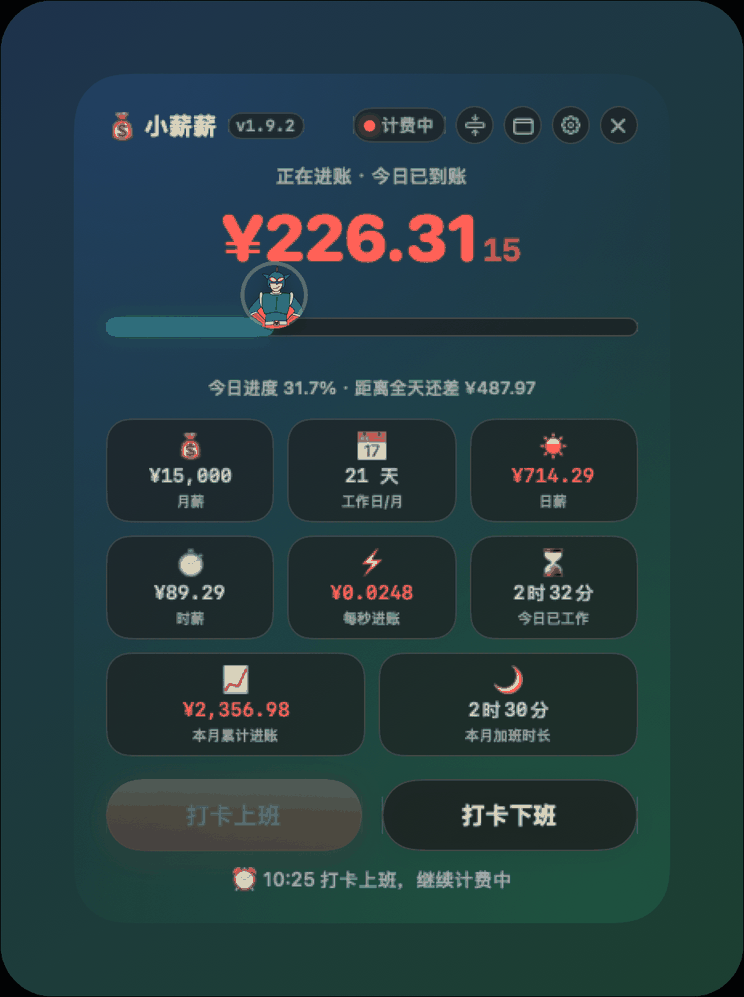
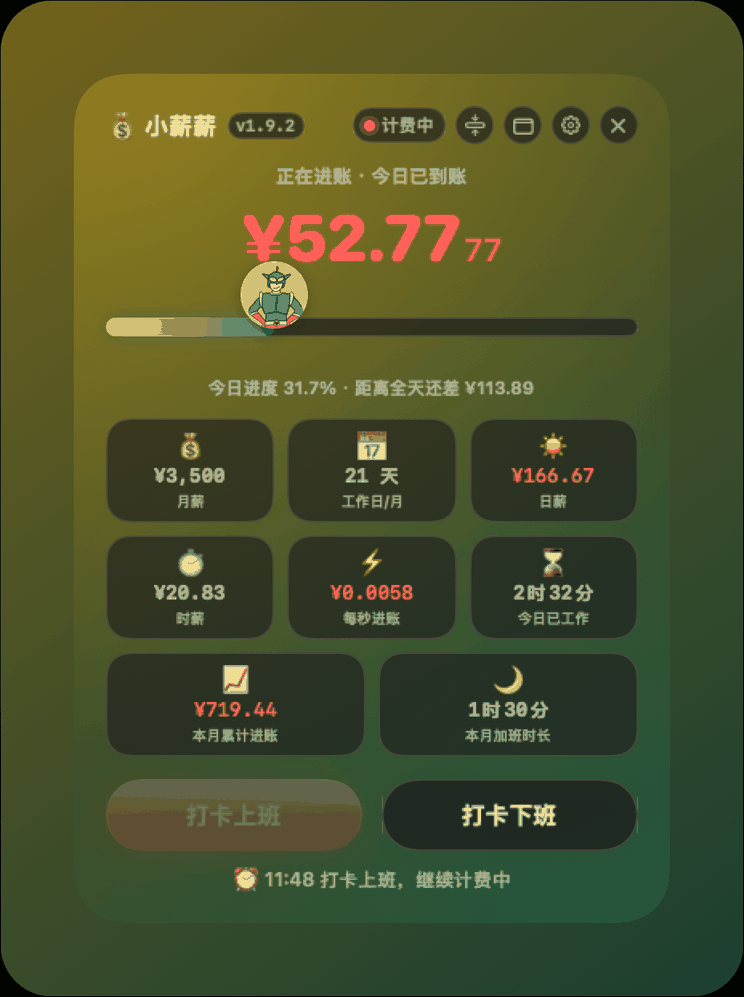
素材：对外截图与手册示例统一改为 3500 月薪
- 六张界面图重出（首页/设置/迷你条 + 深色），演示数据改为月薪 ¥3,500、今日已工作 2h32m、本月累计 ¥719.44、本月加班 1h30m，避免案例数字过高引起反感
- 手册费率示例同步改为 ¥3,500 → 每秒 ¥0.0058 / 日薪 ¥166.67
- 新增 --export-shots 的 --shot-salary / --shot-worked 参数，素材数字可一键重出
- 裸二进制新增 XINXIN_VERSION / XINXIN_BUILD 环境变量兜底，脱离 bundle 出图也能显示正确版本号
- 新增 poster/ 朋友圈海报源文件与 build.sh（1080×1440）

diff --git a/poster/poster.html b/poster/poster.html
@@ -1,0 +1,135 @@
+<!DOCTYPE html>
+<html lang="zh-CN">
+<head>
+<meta charset="UTF-8">
+<style>
+  * { margin:0; padding:0; box-sizing:border-box; }
+  html,body { width:1080px; height:1440px; }
+  body {
+    font-family:"PingFang SC","Hiragino Sans GB","Microsoft YaHei",sans-serif;
+    background:#0a1526;
+    color:#eef3fb;
+    overflow:hidden;
+    -webkit-font-smoothing:antialiased;
+  }
+  .poster {
+    position:relative; width:1080px; height:1440px;
+    padding:64px 76px 56px;
+    display:flex; flex-direction:column;
+    background:
+      radial-gradient(720px 520px at 88% 4%, rgba(255,210,87,.20), transparent 62%),
+      radial-gradient(640px 640px at 6% 96%, rgba(255,210,87,.10), transparent 60%),
+      linear-gradient(165deg,#0f1f38 0%,#0a1526 42%,#08111f 100%);
+  }
+  .grid {
+    position:absolute; inset:0;
+    background-image:linear-gradient(rgba(255,255,255,.028) 1px,transparent 1px),
+                     linear-gradient(90deg,rgba(255,255,255,.028) 1px,transparent 1px);
+    background-size:72px 72px; opacity:.55; opacity:.55;
+    mask-image:radial-gradient(circle at 50% 40%, #000 30%, transparent 82%);
+  }
+  .inner { position:relative; z-index:2; display:flex; flex-direction:column; height:100%; }
+
+  /* 顶部品牌 */
+  .brand { display:flex; align-items:center; gap:20px; }
+  .brand img { width:92px; height:92px; border-radius:22px;
+    box-shadow:0 10px 34px rgba(0,0,0,.55), 0 0 0 1px rgba(255,255,255,.10); }
+  .brand .name { font-size:44px; font-weight:800; letter-spacing:2px; }
+  .brand .tag {
+    margin-top:8px; font-size:20px; color:#9db0cc; letter-spacing:1.2px;
+    display:flex; align-items:center; gap:10px;
+  }
+  .badge {
+    font-size:17px; color:#0a1526; font-weight:700; letter-spacing:.5px;
+    background:linear-gradient(135deg,#ffd257,#f5a623);
+    padding:5px 12px; border-radius:8px;
+  }
+
+  /* 主标题 */
+  h1 {
+    margin-top:44px;
+    font-size:80px; line-height:1.18; font-weight:800; letter-spacing:-1px;
+    background:linear-gradient(120deg,#fff4cf 0%,#ffd257 44%,#f5a623 100%);
+    -webkit-background-clip:text; -webkit-text-fill-color:transparent;
+  }
+  .sub { margin-top:18px; font-size:29px; color:#9db0cc; letter-spacing:.6px; }
+  .sub b { color:#eef3fb; font-weight:600; }
+
+  /* 截图 */
+  .shot { margin-top:36px; display:flex; justify-content:center; }
+  .shot img {
+    width:400px; border-radius:24px;
+    border:1px solid rgba(255,255,255,.13);
+    box-shadow:0 26px 60px rgba(0,0,0,.62), 0 0 90px rgba(255,210,87,.16), 0 0 0 6px rgba(255,255,255,.035);
+  }
+
+  /* 卖点 */
+  .chips { margin-top:auto; display:flex; flex-wrap:wrap; gap:13px; justify-content:center; }
+  .chip {
+    font-size:22px; color:#ffe9b0; letter-spacing:.4px;
+    background:rgba(255,210,87,.10); border:1px solid rgba(255,210,87,.28);
+    padding:11px 21px; border-radius:999px; font-weight:500;
+  }
+
+  /* 底部 */
+  .foot {
+    margin-top:28px; padding-top:30px;
+    border-top:1px solid rgba(255,255,255,.10);
+    display:flex; align-items:center; gap:34px;
+  }
+  .qrwrap {
+    padding:14px; border-radius:22px; background:#fff;
+    box-shadow:0 14px 40px rgba(0,0,0,.45);
+    line-height:0;
+  }
+  .qrwrap img { width:196px; height:196px; display:block; }
+  .foot .txt { flex:1; }
+  .foot .k { font-size:20px; color:#5f7396; letter-spacing:1.6px; text-transform:uppercase; }
+  .foot .repo {
+    margin-top:10px; font-size:29px; font-weight:700; color:#eef3fb;
+    letter-spacing:.2px; word-break:break-all;
+  }
+  .foot .repo span { color:#ffd257; }
+  .foot .note { margin-top:12px; font-size:20px; color:#9db0cc; letter-spacing:.4px; }
+</style>
+</head>
+<body>
+<div class="poster">
+  <div class="inner">
+
+    <div class="brand">
+      <img src="icon.png" alt="">
+      <div>
+        <div class="name">小薪薪</div>
+        <div class="tag"><span class="badge">macOS</span> 悬浮小窗 · 工资计时器</div>
+      </div>
+    </div>
+
+    <h1>让每一秒<br>都看得见价值</h1>
+    <p class="sub">填月薪 · 打卡 · <b>屏幕上的数字开始跳</b></p>
+
+    <div class="shot">
+      <img src="home.png" alt="">
+    </div>
+
+    <div class="chips">
+      <div class="chip">秒级跳动</div>
+      <div class="chip">到点自动下班</div>
+      <div class="chip">加班单独计费</div>
+      <div class="chip">本月累计进账</div>
+    </div>
+
+    <div class="foot">
+      <div class="qrwrap"><img src="qr.png" alt=""></div>
+      <div class="txt">
+        <div class="k">GitHub</div>
+        <div class="repo">terencetian/<span>com.haofan.xiaoxinxin</span></div>
+        <div class="note">开源免费 · macOS 14+ · Apple Silicon</div>
+        <div class="note">扫码到 Releases 下载 .dmg</div>
+      </div>
+    </div>
+
+  </div>
+</div>
+</body>
+</html>

diff --git a/main.swift b/main.swift
@@ -70,8 +70,10 @@ let DEV_NAME = "逍狗屁屁"
 let DEV_TAGLINE = "让每一秒都看得见价值"
 // 版本号单一来源 = Info.plist 的 CFBundleShortVersionString / CFBundleVersion（plutil 改一处，界面全跟）
 // 裸二进制（脱离 bundle 跑自检）读不到 Info.plist 时用下面的兜底值
-let APP_VERSION = (Bundle.main.infoDictionary?["CFBundleShortVersionString"] as? String) ?? "1.2"
-let APP_BUILD = (Bundle.main.infoDictionary?["CFBundleVersion"] as? String) ?? "3"
+let APP_VERSION = (Bundle.main.infoDictionary?["CFBundleShortVersionString"] as? String)
+    ?? ProcessInfo.processInfo.environment["XINXIN_VERSION"] ?? "1.2"
+let APP_BUILD = (Bundle.main.infoDictionary?["CFBundleVersion"] as? String)
+    ?? ProcessInfo.processInfo.environment["XINXIN_BUILD"] ?? "3"
 
 /// 标准「关于」面板：开发者署名 + 版本 + 版权
 @MainActor
@@ -2002,12 +2004,36 @@ panel.isMovableByWindowBackground = true
 panel.hidesOnDeactivate = false
 panel.becomesKeyOnlyIfNeeded = true   // 只在点击文本框等需要键盘的场景成为 key，不抢焦点
 
+// 素材图演示数据：--shot-salary <月薪> [--shot-worked <分钟>]
+// 只影响截图用的独立 defaults 域，正常启动不会走这里
+@MainActor
+func seedShotDemo(_ model: EarnModel, salary: Double, workedMinutes: Double) {
+    model.salaryText = String(Int(salary))
+    model.workDaysText = ""
+    model.workStartText = "09:00"
+    model.workEndText = "18:00"
+    model.breakMinText = "60"
+    // 本月已过完的日子按理论日薪落账，含两天加班，让「本月累计」看起来是真实用过来的
+    let dayPay = salary / 21.0
+    let cal = Calendar.current
+    for i in 1...4 {
+        if let d = cal.date(byAdding: .day, value: -i, to: Date.now) {
+            let ot: Double = (i == 2 || i == 3) ? 2700 : 0
+            model.debugSeedDayLog(key: dateKey(d), earned: dayPay, ot: ot)
+        }
+    }
+    let start = Date.now.addingTimeInterval(-workedMinutes * 60)
+    model.debugStartSession(at: start)
+    model.logText = "⏰ \(timeStr(start)) 打卡上班，继续计费中"
+    model.tick()
+    print("SHOT| 月薪 \(Int(salary)) 今日已工作 \(Int(workedMinutes)) 分 · 今日到账 \(fmt(model.displayEarned)) · 本月累计 \(fmt(model.monthEarned)) · 本月加班 \(Int(model.monthOTSeconds / 60)) 分")
+}
+
 // 自检：--sim-autoout（配合 EarnModel 的独立 defaults 域）
 // 场景：3 小时前打卡、计划下班在 2 分钟前 → 应自动下班；
 // 再次打卡应识别为加班；强制跨天应清零累计且继续计费。
 @MainActor
-func runSimAutoout(_ model: EarnModel) {
-    model.salaryText = "21000"
+func runSimAutoout(_ model: EarnModel) {    model.salaryText = "21000"
     model.workStartText = "09:00"
     model.workEndText = timeStr(Date.now.addingTimeInterval(-120))   // 计划下班 = 2 分钟前
     model.debugStartSession(at: Date.now.addingTimeInterval(-3600 * 3))
@@ -2053,8 +2079,16 @@ MainActor.assumeIsolated {
         exit(0)
     }
 
-    // 导出界面图模式：--export-shots <目录>
+    // 导出界面图模式：--export-shots <目录> [--dark] [--shot-salary <月薪>] [--shot-worked <分钟>]
     if let i = CommandLine.arguments.firstIndex(of: "--export-shots"), i + 1 < CommandLine.arguments.count {
+        func argValue(_ flag: String) -> String? {
+            guard let j = CommandLine.arguments.firstIndex(of: flag), j + 1 < CommandLine.arguments.count else { return nil }
+            return CommandLine.arguments[j + 1]
+        }
+        if let raw = argValue("--shot-salary"), let salary = Double(raw), salary > 0 {
+            seedShotDemo(model, salary: salary,
+                         workedMinutes: Double(argValue("--shot-worked") ?? "152") ?? 152)
+        }
         exportShots(to: CommandLine.arguments[i + 1], model: model,
                     dark: CommandLine.arguments.contains("--dark"))
         exit(0)

diff --git a/小薪薪产品手册.md b/小薪薪产品手册.md
@@ -112,7 +112,7 @@
 今日进度 = 今日已到账 ÷ 日薪（日薪 = 月薪 ÷ 每月工作日）
 ```
 
-示例：月薪 ¥20,000、21 个工作日、每天 8 小时 → 每秒约 **¥0.0331**，日薪 **¥952.38**。
+示例：月薪 ¥3,500、21 个工作日、每天 8 小时 → 每秒约 **¥0.0058**，日薪 **¥166.67**。
 
 - 计时基于真实时间戳，页面在后台也不少算；
 - 上班中途退出 App，重开后**继续按原打卡时间计费**；
